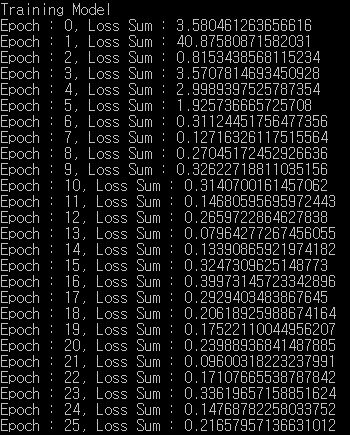
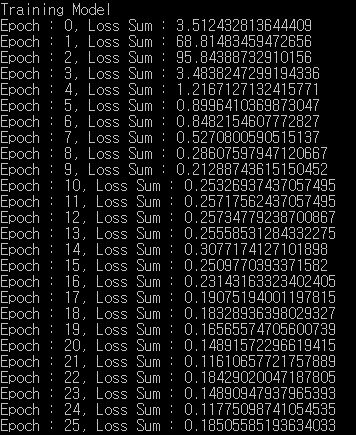
Add files via upload

diff --git a/Configuration.py b/Configuration.py
@@ -4,7 +4,7 @@ object_class_num = 17
 object_class_num_with_bg = 18
 
 training_max_epoch = 100
-learning_rate = 0.001
+learning_rate = 0.0005
 learning_rate_decay_factor = 0.5
 learning_rate_decay_ratio = 10
 
